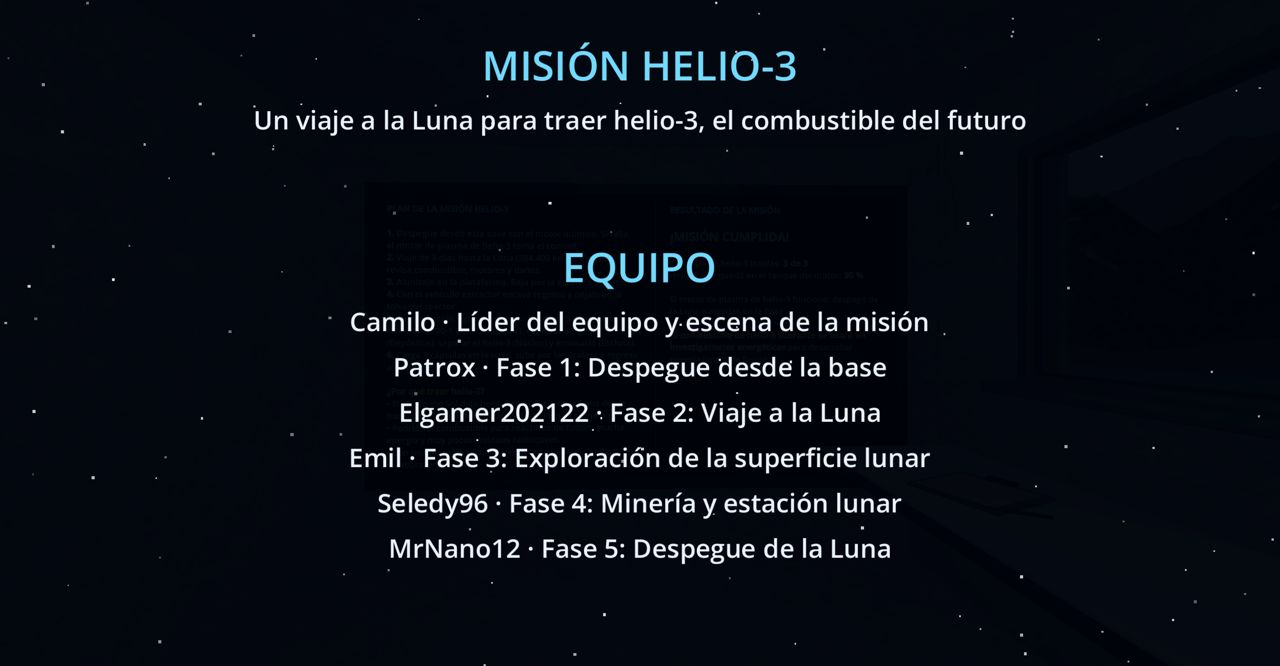
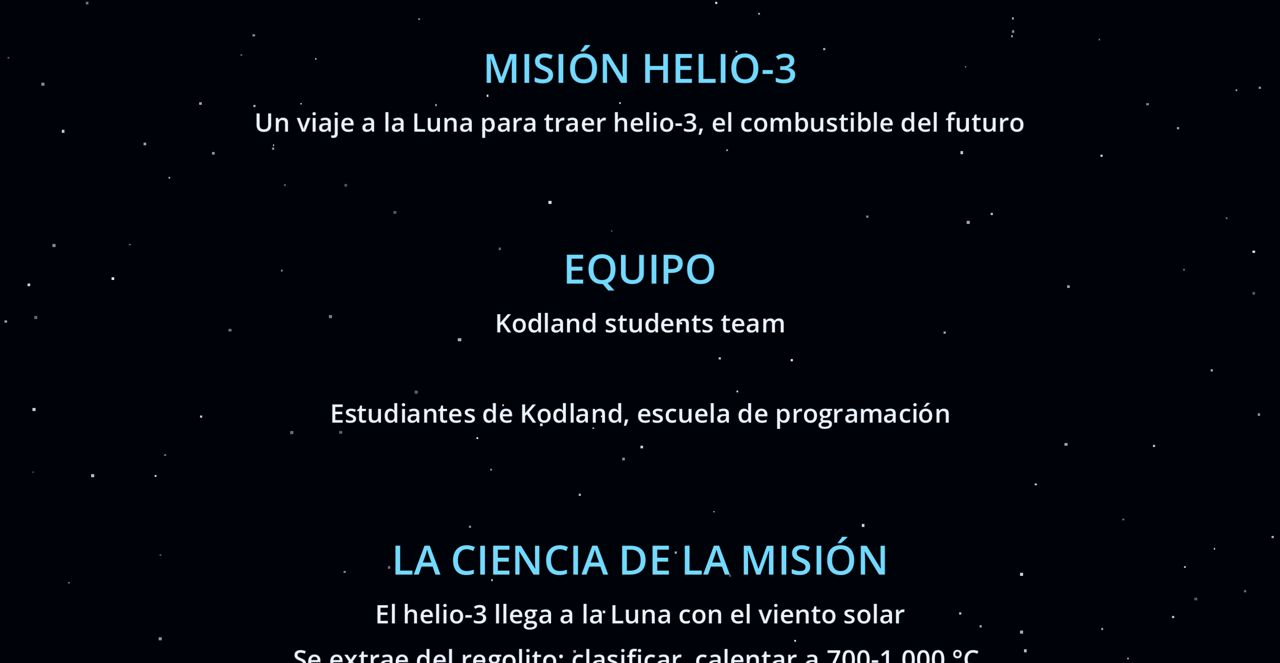
docs: reemplaza los nombres del equipo por "Kodland students team"
Por las reglas de NASA Space Apps sobre nombres de menores de 18 años, se quitan
los nombres del equipo de la página web, su guía de piezas y los créditos del juego.
No se cambia nada más. La versión entregada queda en la etiqueta entrega-space-apps-2026.

diff --git a/docs/index.html b/docs/index.html
@@ -300,7 +300,7 @@ footer { color: var(--regolito); font-size: 0.88rem; border-top: 1px solid var(-
       <figure><img src="img/oxigeno.jpg" alt="Recarga de oxígeno en la esclusa de la estación" loading="lazy"><figcaption>Recarga de oxígeno en la esclusa.</figcaption></figure>
       <figure><img src="img/astronauta.jpg" alt="El astronauta con traje naranja en la Luna" loading="lazy"><figcaption>El astronauta, animado con Mixamo.</figcaption></figure>
       <figure><img src="img/comunicaciones.jpg" alt="Conversación con Control de Misión" loading="lazy"><figcaption>Conversación con Control de Misión.</figcaption></figure>
-      <figure><img src="img/creditos.jpg" alt="Créditos del juego con el equipo" loading="lazy"><figcaption>Créditos del equipo.</figcaption></figure>
+      <figure><img src="img/creditos.jpg?v=2" alt="Créditos del juego con el equipo" loading="lazy"><figcaption>Créditos del equipo.</figcaption></figure>
     </div>
   </section>
 
@@ -333,12 +333,7 @@ footer { color: var(--regolito); font-size: 0.88rem; border-top: 1px solid var(-
       <p class="sub">Somos estudiantes de <b>Kodland</b>, escuela de programación, y este es nuestro proyecto para el NASA Space Apps Challenge 2026.</p>
     </div>
     <div class="equipo">
-      <article class="persona"><span>Equipo</span><h3>Kimberly Selena Sandoval Guato</h3></article>
-      <article class="persona"><span>Equipo</span><h3>Jentsel Arnold Aguilar Aguilera</h3></article>
-      <article class="persona"><span>Equipo</span><h3>Darwin Emil Alvarez Miranda</h3></article>
-      <article class="persona"><span>Equipo</span><h3>José Miguel Tang Ly</h3></article>
-      <article class="persona"><span>Equipo</span><h3>Mariano Carazo</h3></article>
-      <article class="persona lider"><span>Líder del equipo</span><h3>Camilo Muñoz Bermudez</h3></article>
+      <article class="persona"><span>Equipo</span><h3>Kodland students team</h3></article>
     </div>
   </section>
 

diff --git a/docs/PIEZAS_BASE.md b/docs/PIEZAS_BASE.md
@@ -11,7 +11,7 @@ Se arrastran desde el panel *Sistema de archivos* hasta tu escena.
 4. Guarda (Cmd+S / Ctrl+S) → GitHub Desktop → **Commit** → **Push**.
 
 > No edites las plantillas ni las piezas de las carpetas `scenes/objetos`, `scenes/ui`, `scenes/nave` ni `player`.
-> Si las cambias, cambian en **todos** los niveles del equipo. Si quieres algo distinto, pídeselo a Camilo.
+> Si las cambias, cambian en **todos** los niveles del equipo. Si quieres algo distinto, pídeselo al líder del equipo.
 
 Para mover, girar o cambiar el tamaño de una pieza, selecciónala y usa las herramientas de arriba
 (**W** mover, **E** girar, **R** escalar), o cambia los números en el **Inspector**.
@@ -30,7 +30,7 @@ Para mover, girar o cambiar el tamaño de una pieza, selecciónala y usa las her
 
 | Pieza | Archivo | Qué hace | Lo que puedes cambiar en el Inspector |
 | --- | --- | --- | --- |
-| Jugador | `player/player.tscn` | El astronauta en primera persona (hecho por JustPatrox) | `speed` (velocidad) |
+| Jugador | `player/player.tscn` | El astronauta en primera persona | `speed` (velocidad) |
 | HUD | `scenes/ui/hud.tscn` | Muestra combustible, energía, regolito y helio-3 | `mostrar_mira` |
 | Gravedad | `scenes/objetos/zona_gravedad.tscn` | Gravedad dentro de la caja | `gravedad`: Luna 1.62, Tierra 9.8 |
 | Roca de regolito | `scenes/objetos/deposito_regolito.tscn` | Con **E** se excava y da regolito | `excavaciones`, `regolito_por_excavacion` |
